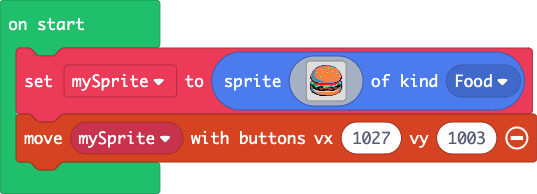
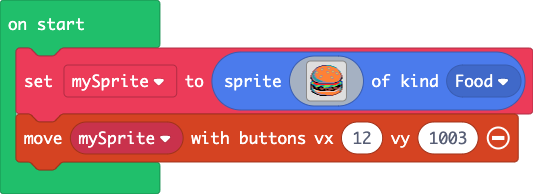
Update main.blocks, main.ts

diff --git a/main.ts b/main.ts
@@ -32,4 +32,4 @@ f 6 6 d d f f f f f e e e f f e f f e e e e e f f e e d b 4 6 e
 . . . . . . . . . f f f f f f f c c c c c e e . . . . . . . . . 
 . . . . . . . . . . . . . . . . . . . . . . . . . . . . . . . . 
 `, SpriteKind.Food)
-controller.moveSprite(mySprite, 1027, 1003)
+controller.moveSprite(mySprite, 12, 1003)
